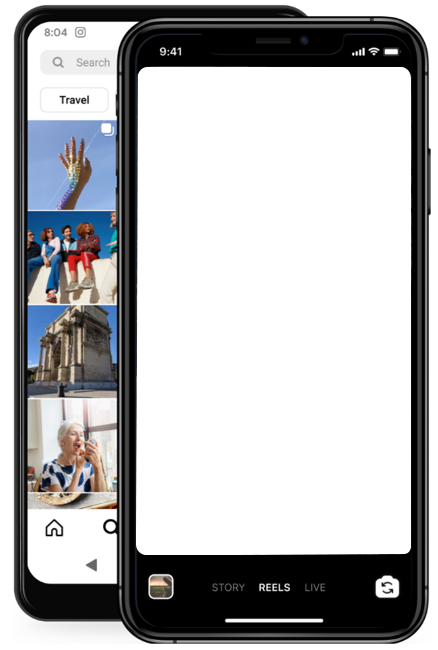
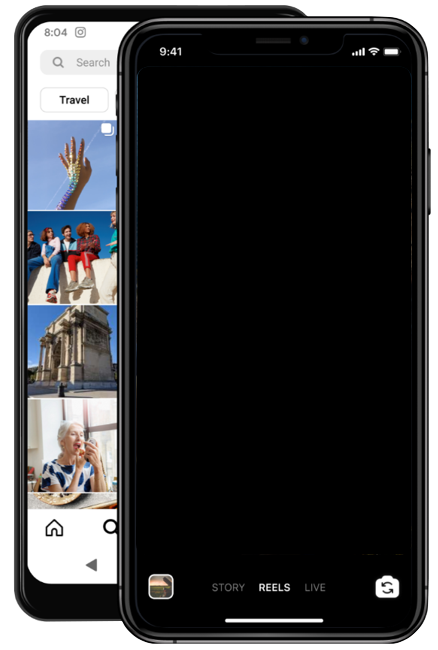
Update
Update

diff --git a/public/assets/css/hostpage.css b/public/assets/css/hostpage.css
@@ -1,7 +1,8 @@
 body, html {
     font-family: 'Poppins' !important;
-    max-width: 100%;
+    max-width: 1360px;
     overflow-x: hidden;
+    margin: 0 auto;
 }
 .bottom h1 {
     margin-bottom: 1.6rem !important;
@@ -103,23 +104,28 @@ body, html {
     letter-spacing: 1px;
 }
 .host-video-section {
-    background: url('/assets/media/videos/mobile-phone.png');
-    background-size: contain;
-    background-repeat: no-repeat;
-    background-position: 50% 50%;
-    width: 100%;
-    height: 100%;
+    display: flex;
+    justify-content: center;
+    height: 440px;
+    width: auto;
 }
 .host-video-container {
-    position: absolute;
-    margin-top: 3.2%;
-    margin-left: 19.2%;
+    position: relative;
+    background: url('/assets/media/videos/mobile-phone.png');
+    background-size: cover;
+    background-repeat: no-repeat;
+    background-position: 50% 50%;
 }
-.host-video {
-    width: 188px;
-    height: 338px;
-    object-fit: cover;
+.video-content {
+    width: 298px;
+    height: 359px;
+}
+.host-video-container video {
+    width: 61.5%;
     border-radius: 10px;
+    position: relative;
+    top: 12.8%;
+    left: 32.6%;
 }
 .help-section {
     background: url('/assets/media/photos/customer-services.webp');

diff --git a/resources/views/admin/add_listing/hostpage.blade.php b/resources/views/admin/add_listing/hostpage.blade.php
@@ -185,11 +185,12 @@
                 <div class="col-12 col-md-6">
                     <div class="host-video-section">
                         <div class="host-video-container">
-                        <video class="host-video" loop="true" autoplay="autoplay" controls muted>
-                        <source src="{{ asset('assets/media/videos/production ID_4434242.mp4') }}" type="video/mp4">
-                        <source src="movie.ogg" type="video/ogg">
-                        Your browser does not support the video tag.
-                        </video>
+                            <div class="video-content">
+                                <video loop="true" autoplay="autoplay" controls muted>
+                                <source src="{{ asset('assets/media/videos/production ID_4434242.mp4') }}" type="video/mp4">
+                                Your browser does not support the video tag.
+                                </video>
+                            </div>
                         </div>
                     </div>
                 </div>
